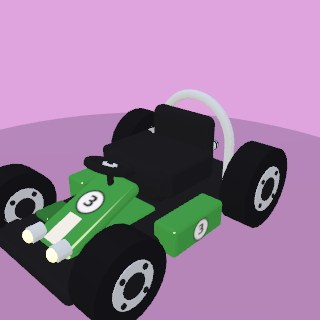
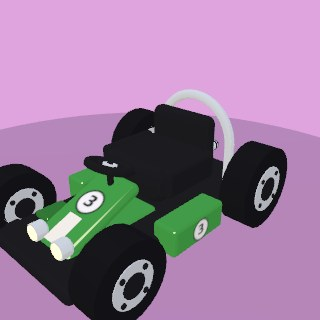
Flat-faced bucket headlights for the buggy + cage kart
Per the dune-buggy inspo: each light is now a short wide chrome bucket
with a domed back and a big FLAT glass lens disc filling its face (thin
chrome rim visible around it), instead of the bullet pods with bulging
dome lenses.

Claude-Session: https://claude.ai/code/session_017fyz1DfGtQ1NoLSq3UX5Bd

Changed region(s): [[0.125, 0.7188, 0.25, 0.8438], [0.0625, 0.6875, 0.1562, 0.7812]]

diff --git a/src/models.js b/src/models.js
@@ -1450,12 +1450,16 @@ export function createKartModel(bodyColor = 0xe53935, opts = {}) {
         winglet.position.set(sx * 0.64, 0.6, 1.25);
       }
       if (st.hoop || st.cage) {
-        // Off-roaders wear round bullet headlights perched ON the front
-        // bumper. The glowing lenses join the headlight merge below.
+        // Off-roaders wear classic chrome BUCKET headlights on the front
+        // bumper: a short wide housing with a domed back and a big FLAT lens
+        // face (the lenses join the headlight merge below).
         for (const sx of [-1, 1]) {
-          const pod = add(new THREE.Mesh(new THREE.CylinderGeometry(0.13, 0.13, 0.22, 14), chrome));
+          const pod = add(new THREE.Mesh(new THREE.CylinderGeometry(0.15, 0.15, 0.16, 16), chrome));
           pod.rotation.x = Math.PI / 2;
-          pod.position.set(sx * 0.32, 0.62, snout + 0.48);
+          pod.position.set(sx * 0.32, 0.64, snout + 0.46);
+          const podBack = add(new THREE.Mesh(new THREE.SphereGeometry(0.15, 14, 12), chrome));
+          podBack.position.set(sx * 0.32, 0.64, snout + 0.38);
+          podBack.scale.set(1, 1, 0.55);
         }
       }
       // Steering post drops STRAIGHT DOWN from the hub into the panel — well
@@ -1640,11 +1644,12 @@ export function createKartModel(bodyColor = 0xe53935, opts = {}) {
       hlParts.push(light);
     }
   } else if (st.hoop || st.cage) {
-    // Lenses for the bumper-mounted bullet pods (housings built in the shell).
+    // FLAT lens discs filling the bucket faces (housings built in the shell) —
+    // the thin chrome rim of the housing stays visible around each one.
     for (const sx of [-1, 1]) {
-      const lens = new THREE.Mesh(new THREE.SphereGeometry(0.105, 12, 12), glass);
-      lens.position.set(sx * 0.32, 0.62, (st.snout ?? 1.55) + 0.62);
-      lens.scale.set(1, 1, 0.7); // shallow dome poking out of the housing
+      const lens = new THREE.Mesh(new THREE.CylinderGeometry(0.125, 0.125, 0.035, 16), glass);
+      lens.rotation.x = Math.PI / 2;
+      lens.position.set(sx * 0.32, 0.64, (st.snout ?? 1.55) + 0.545);
       hlParts.push(lens);
     }
   } else {
